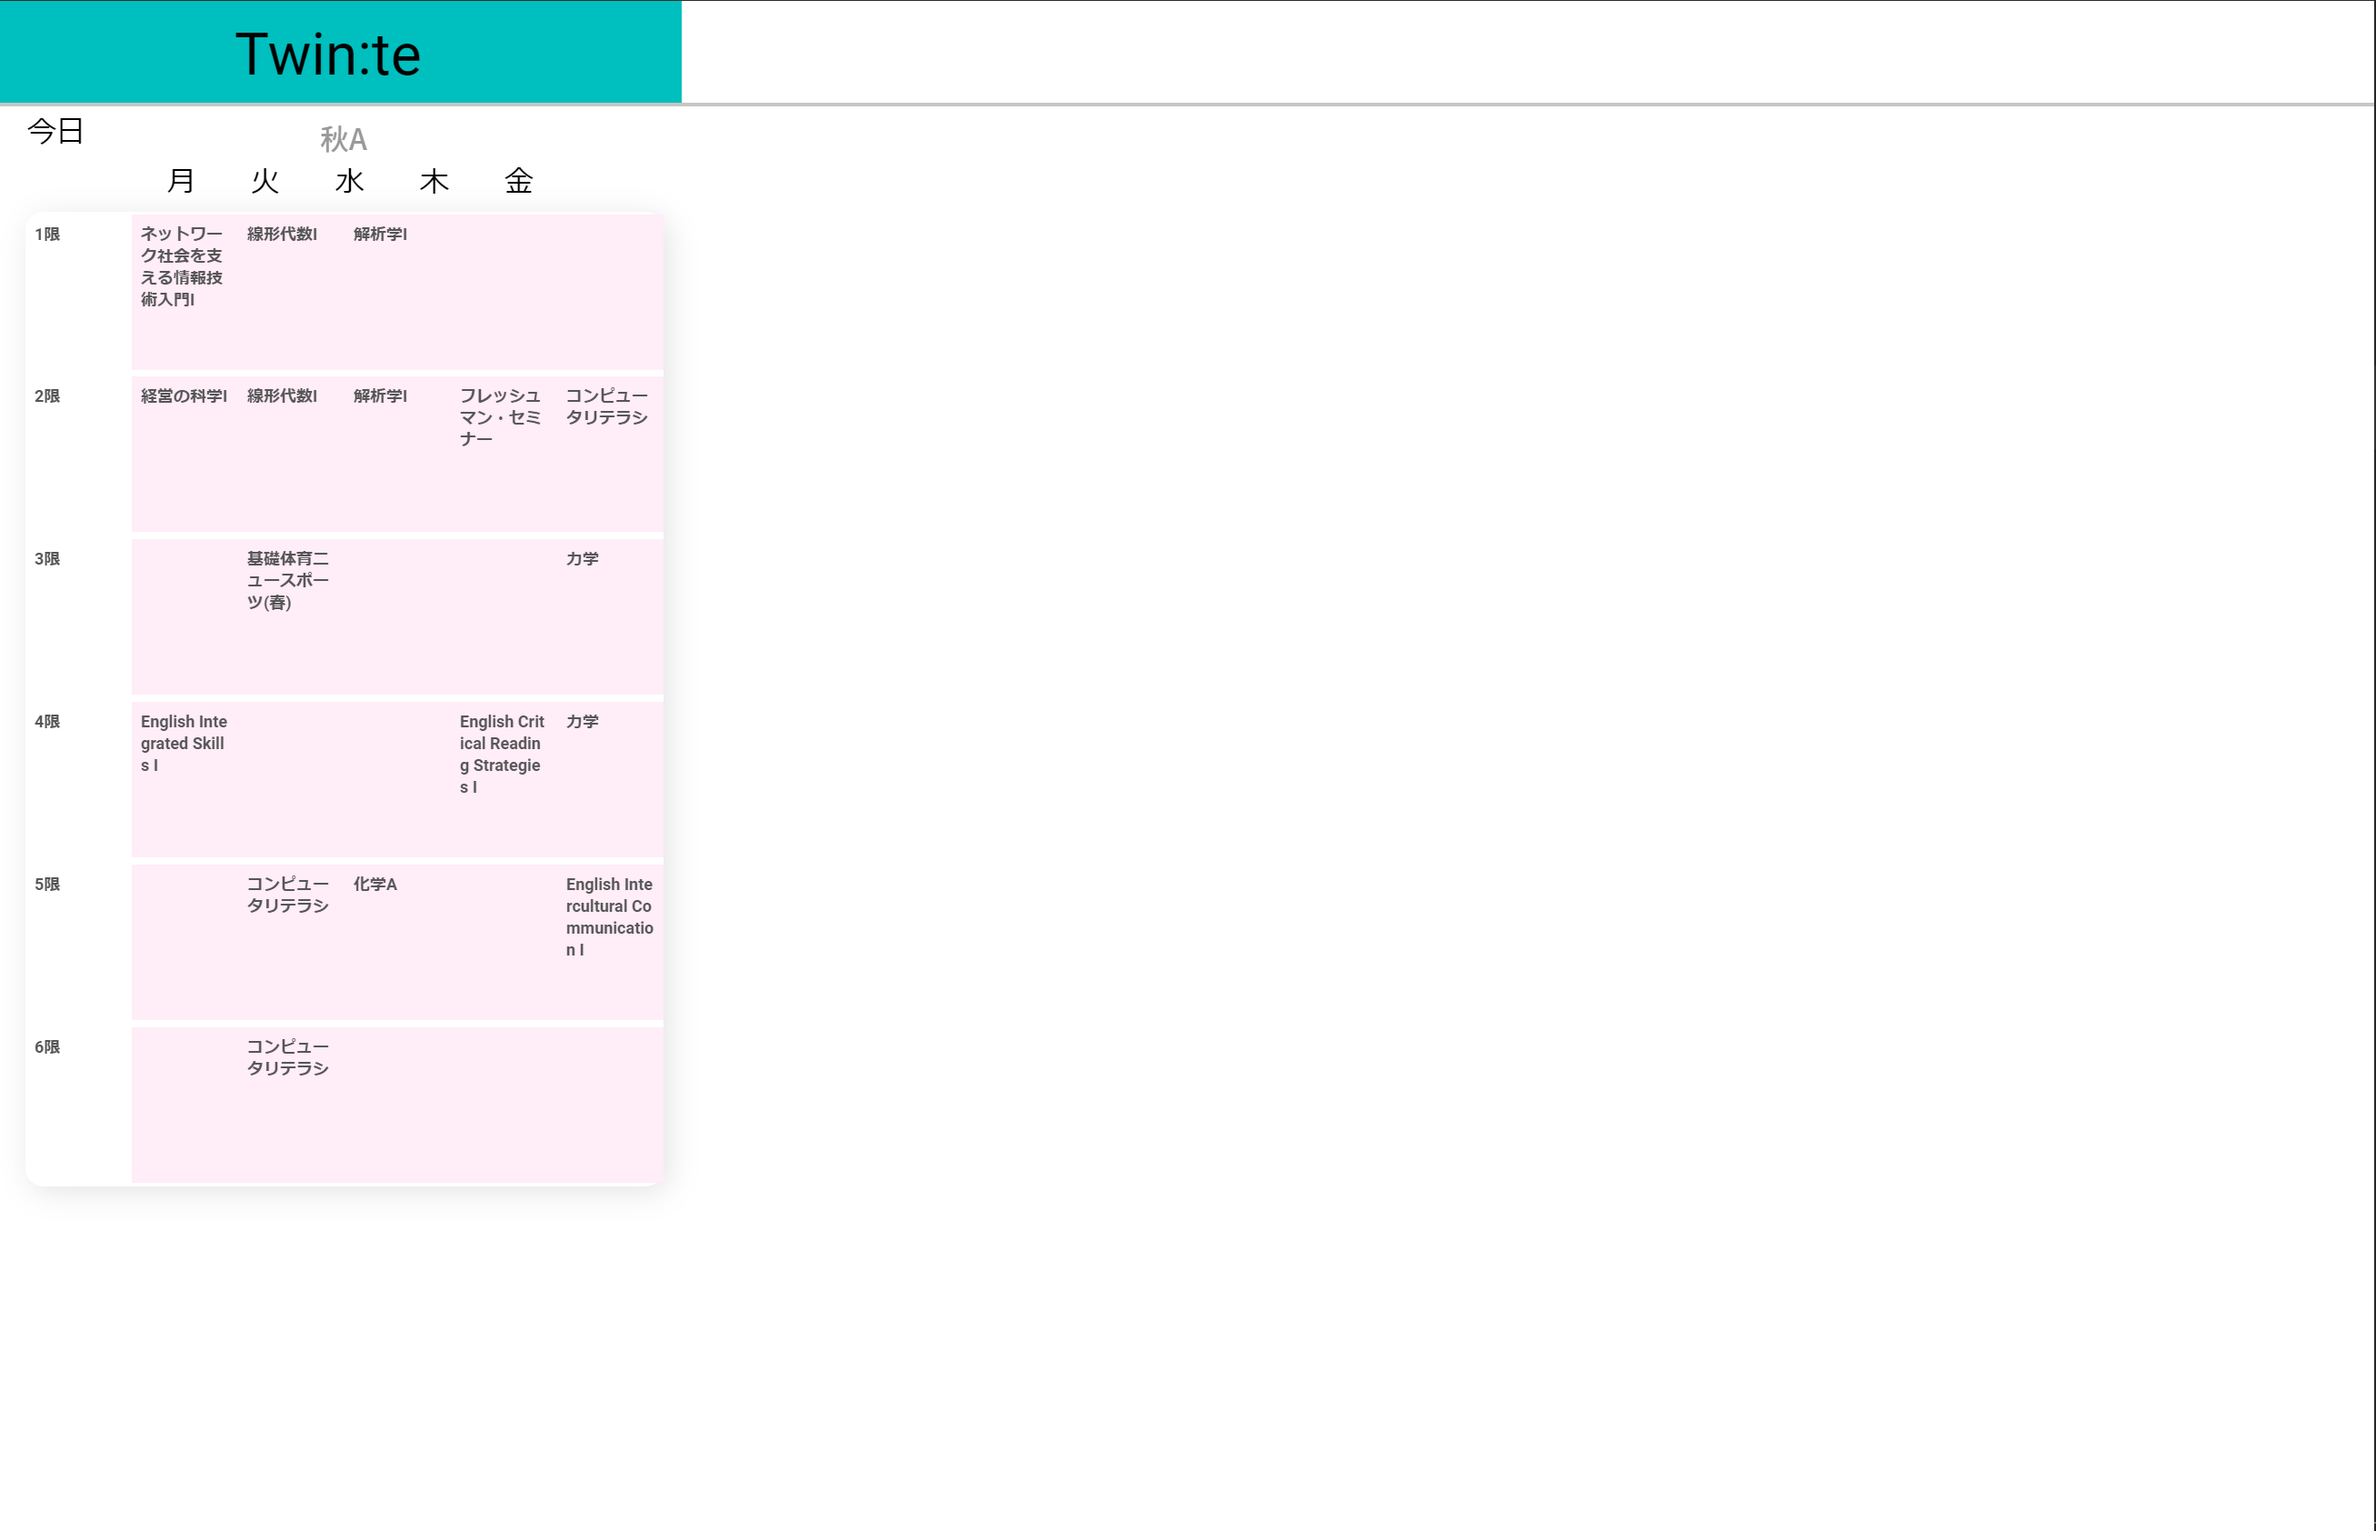
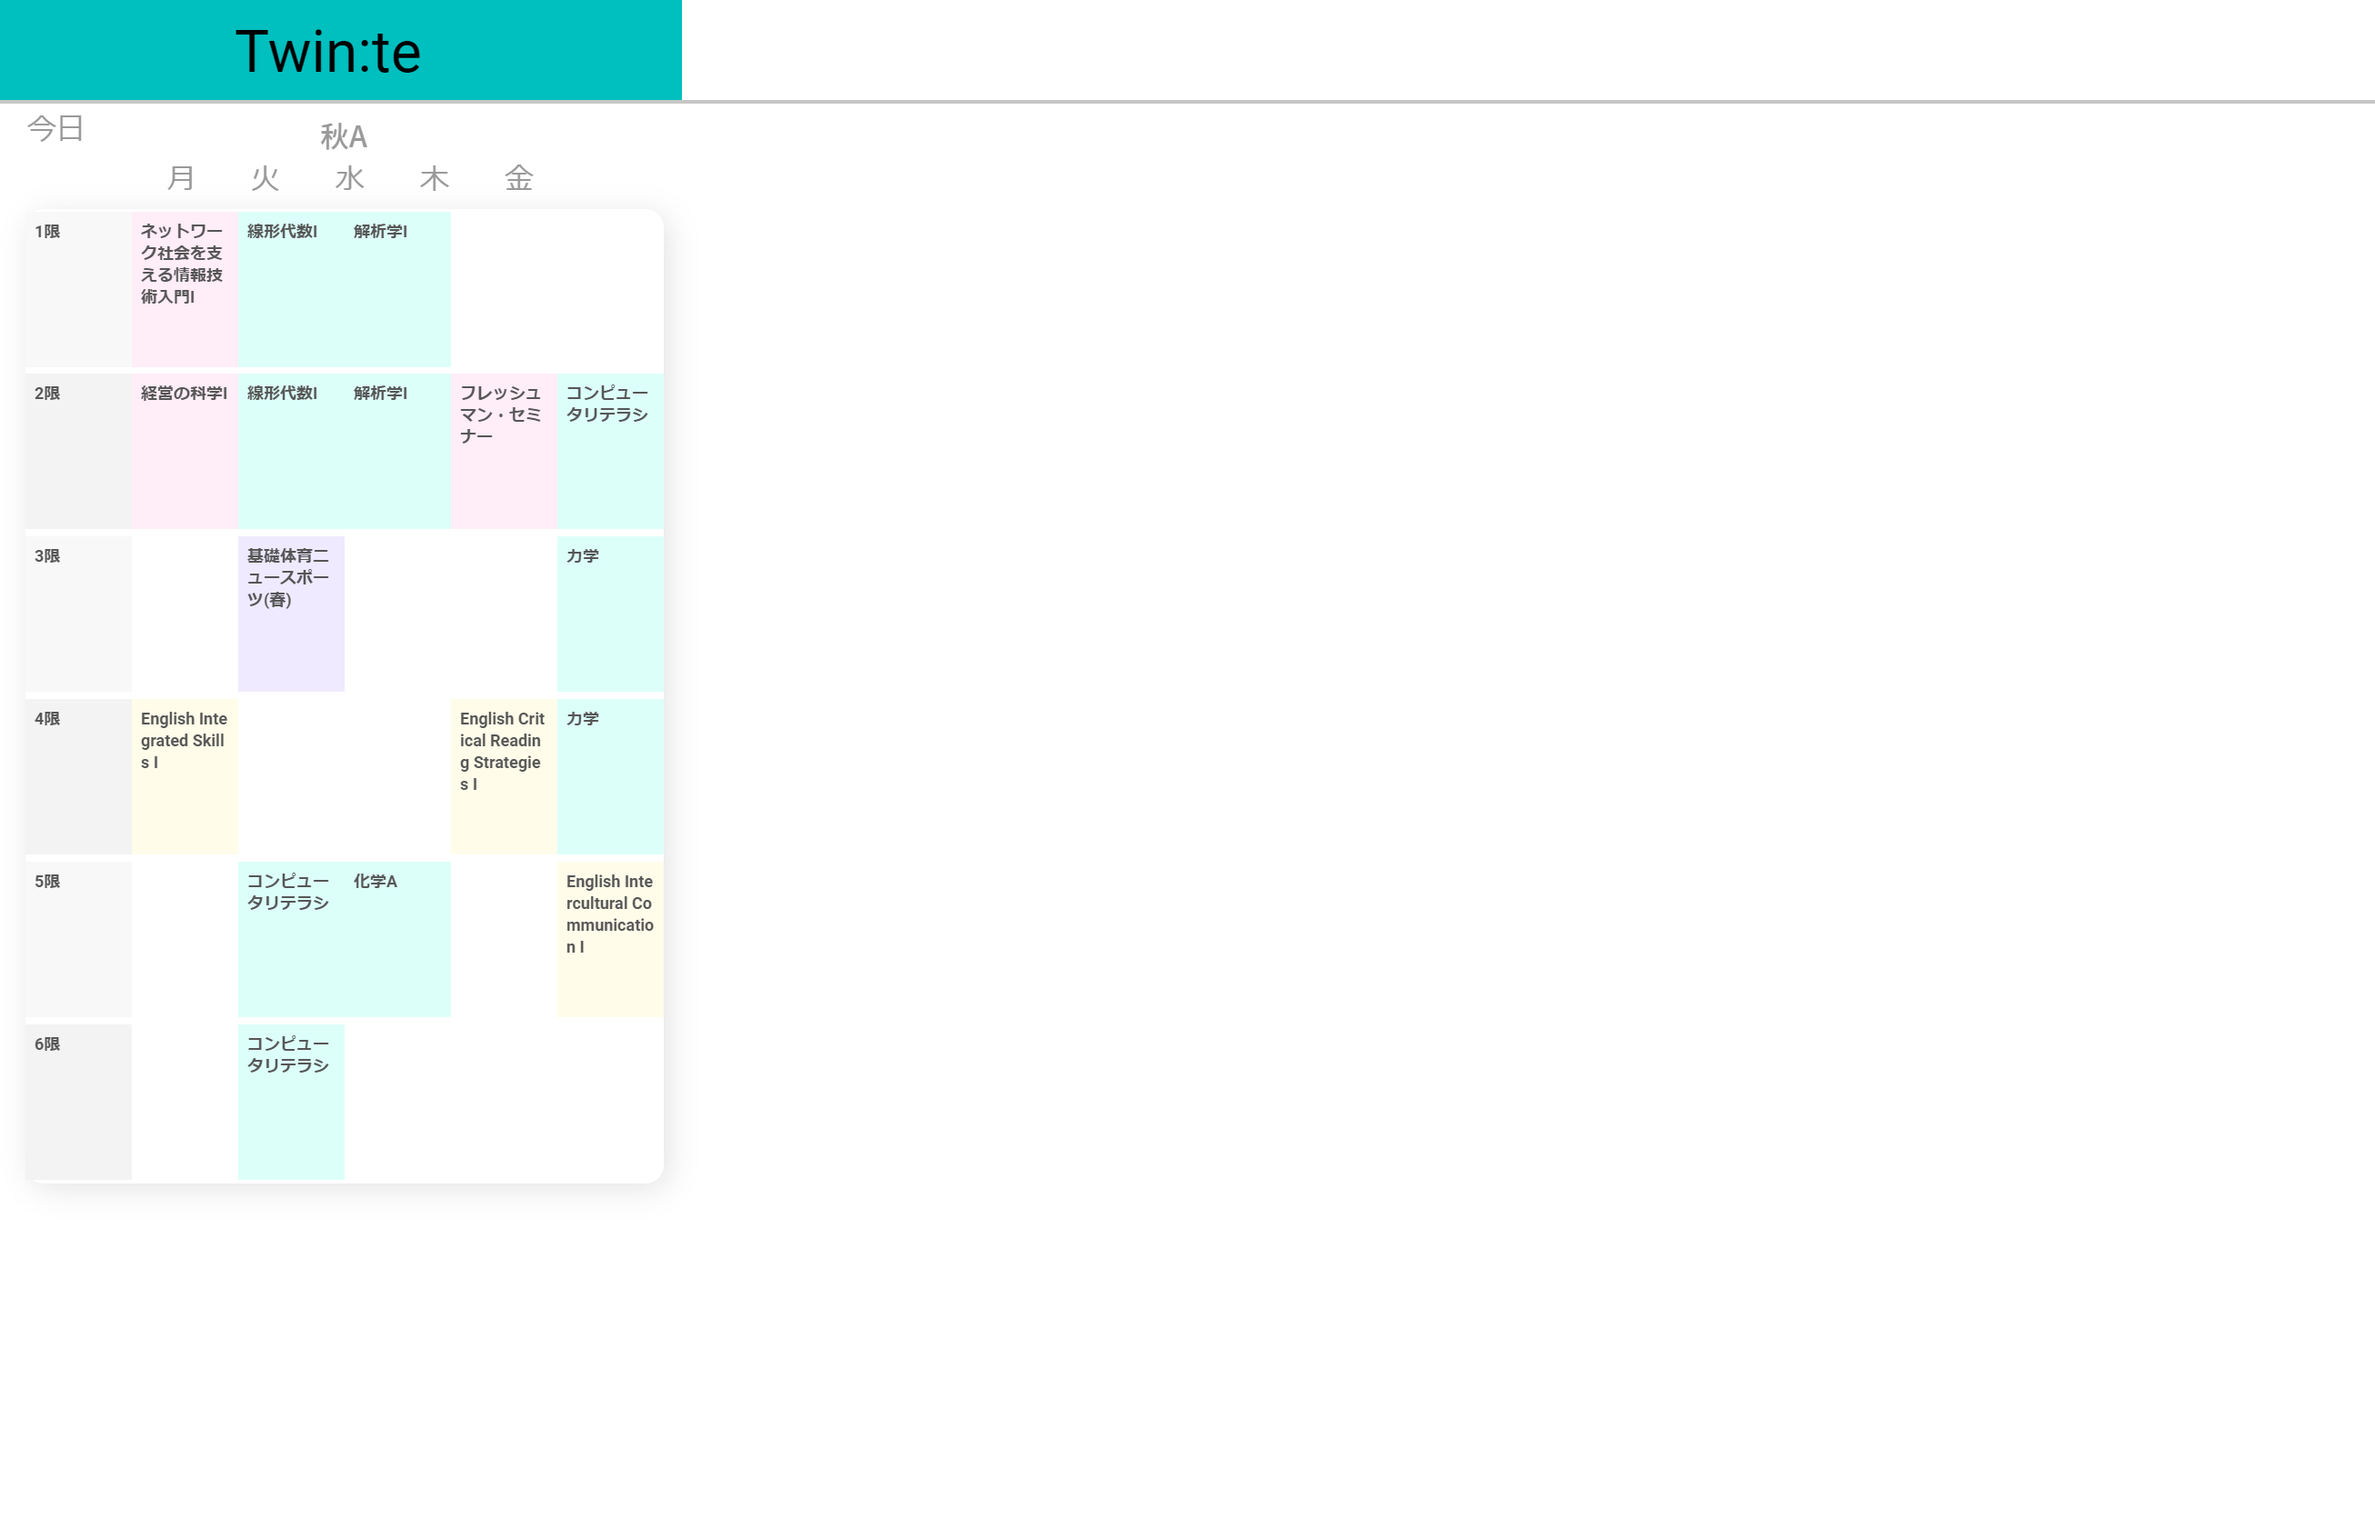
resolve: #3

Changed region(s): [[0.0, 0.0309, 1.0, 0.7733], [0.9923, 0.0, 1.0, 0.0309], [0.062, 0.464, 0.093, 0.4949]]

diff --git a/src/components/pages/table.vue b/src/components/pages/table.vue
@@ -4,8 +4,8 @@
     <tbody>
       <tr v-for="m in 6" :key="m">
         <td v-for="n in 6" :key="n">
-          <div v-if="n == 1">{{ m }}限</div>
-          <div :style="{ background: getColor }" v-else>
+          <div v-if="n == 1" :style="{background: m%2===0?'#F3F3F3':'#F8F8F8'}">{{ m }}限</div>
+          <div :style="{ background: getColor(data[semester][n - 2][m - 1].number) }" v-else>
             {{ data[semester][n - 2][m - 1].name }}
           </div>
         </td>
@@ -64,8 +64,7 @@ export default class Index extends Vue {
    * @description その授業として適切な色を返す
    * @todo 引数を渡せるようにしないといけない
    */
-  public get getColor(): string {
-    const number: string = "1";
+  public getColor(number: string): string { 
     const char: string = number.split("")[0];
     switch (char) {
       case "A": return "#DEFFF9";

diff --git a/src/pages/index.vue b/src/pages/index.vue
@@ -45,6 +45,7 @@ export default class Index extends Vue {
   height: 27px
   left: 87px
   top: 86px
+  color: #9A9A9A
 #day
   position: fixed
   width: 49px
